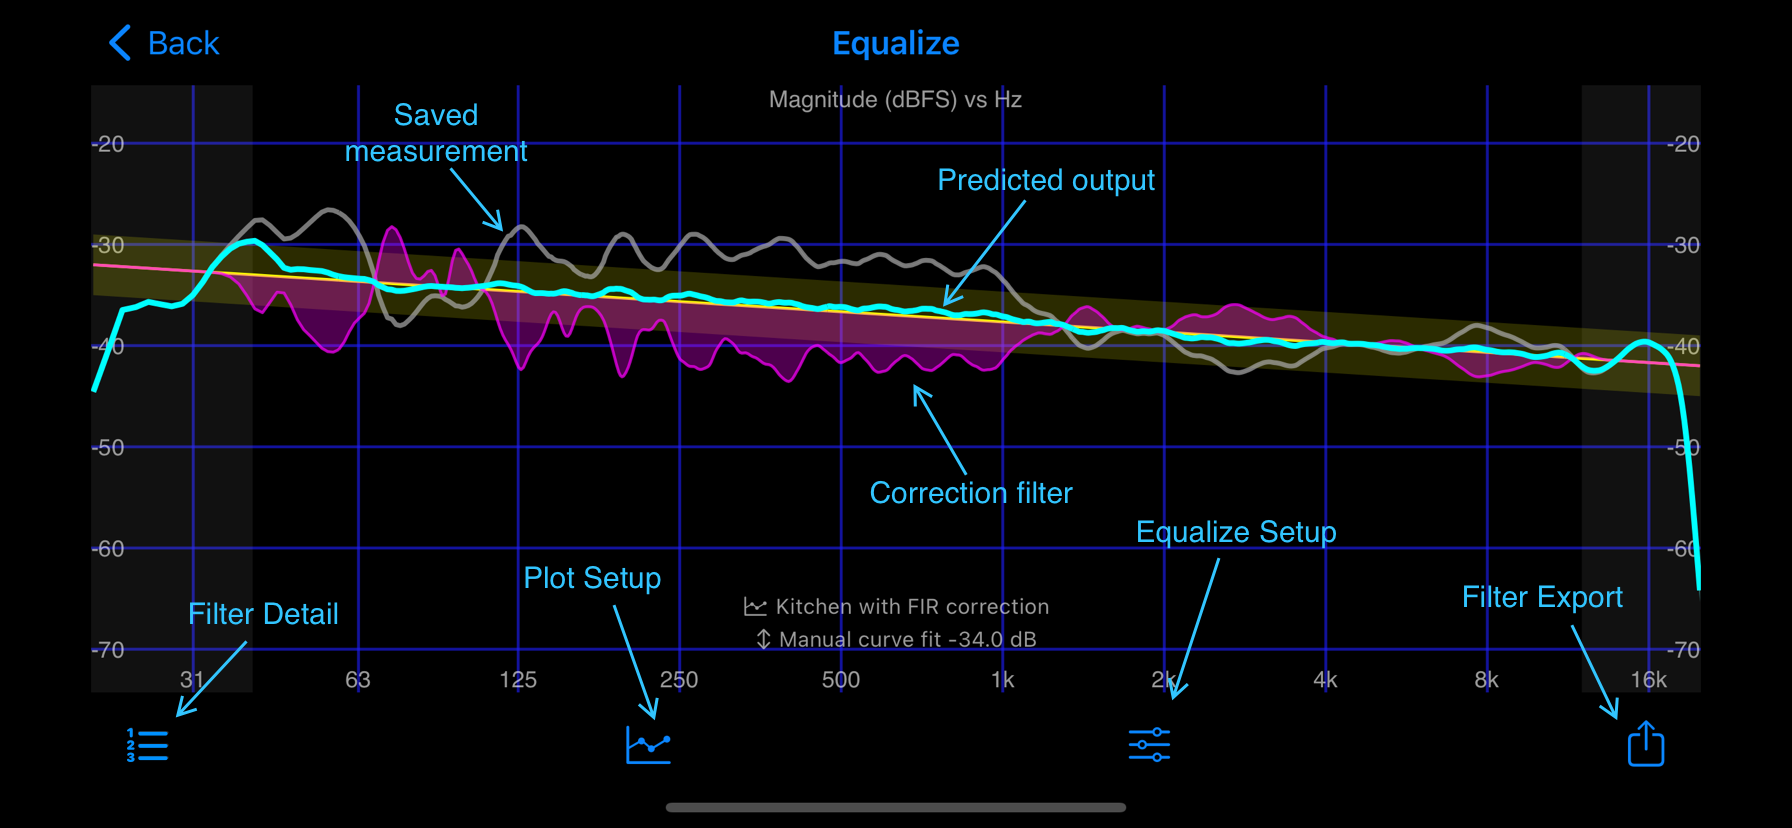
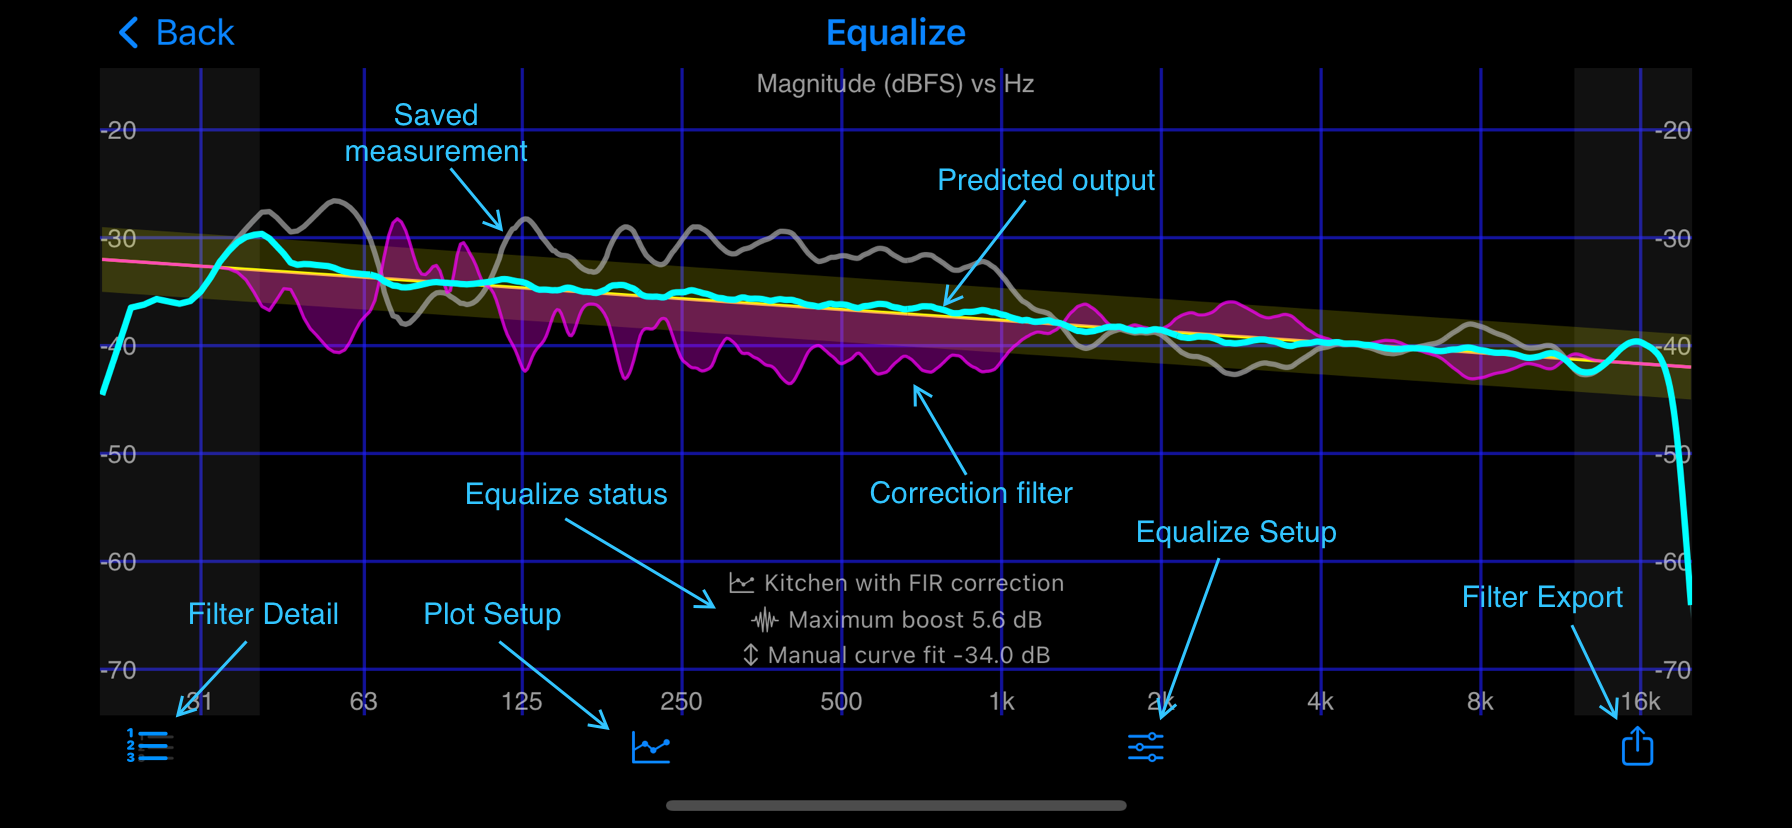
Updating equalize tool manual for max boost

Changed region(s): [[0.0312, 0.0302, 0.9688, 0.936], [0.375, 0.9662, 0.625, 0.9964], [0.4375, 0.4227, 0.5625, 0.4529]]

diff --git a/docs/manual/equalize_tool.md b/docs/manual/equalize_tool.md
@@ -11,14 +11,20 @@ The Equalize Tool can be accessed from the more menu <img src="/assets/img/more.
 
 ![Equalize tool](/assets/img/equalize_screen.png "HouseCurve Equalize tool")
 
+## Saved measurement
+Equalize Tool corrects a saved measurement to a target curve.
+
 ## Predicted output
 The predicted magnitude measurement is shown in cyan.  After applying the correction filters, the measured magnitude response should be close to this.
 
 ## Correction filters
 The filters needed to correct the saved measurement (grey) to the target curve (yellow) are shown in magenta.
 
+## Equalize status
+Basic information about the correction is displayed here.  The maximum boost value can be used to adjust overall system gain to avoid clipping.
+
 ## Filter Detail
-Tap <img src="/assets/img/detail.png" alt="Detail" class="app-icon"> to show the individual filter parameters.  HouseCurve's biquad filters are based on the [Audio EQ Cookbook by Robert Bristow-Johnson](https://www.w3.org/TR/audio-eq-cookbook/).  Where Frequency is the center frequency of the filter.  Gain is in dB and Q is the width of the filter (constant Q).
+Tap <img src="/assets/img/detail.png" alt="Detail" class="app-icon"> to show PEQ filter parameters (disabled when using FIR filter).  Use this screen when manually entering PEQ filters.
 
 ## Plot Setup
 Tap <img src="/assets/img/plot.png" alt="Plot Setup" class="app-icon"> to show the [Plot Setup screen](plot_setup.md).  Use this to select target curves and saved measurements.
